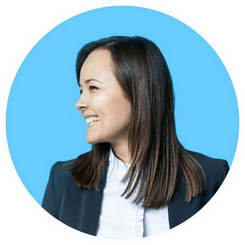
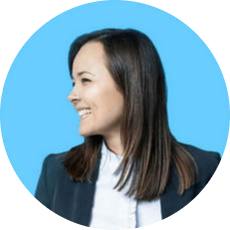
Bootstrap Exercise

diff --git a/index.html b/index.html
@@ -3,39 +3,126 @@
 	<head>
 		<title>Paulina Stachera-Diaz</title>
 		<link rel="stylesheet" href="style/style.css"/>
+		<link href="https://cdn.jsdelivr.net/npm/bootstrap@5.0.2/dist/css/bootstrap.min.css" rel="stylesheet" integrity="sha384-EVSTQN3/azprG1Anm3QDgpJLIm9Nao0Yz1ztcQTwFspd3yD65VohhpuuCOmLASjC" crossorigin="anonymous">
+		<script src="https://cdn.jsdelivr.net/npm/bootstrap@5.0.2/dist/js/bootstrap.bundle.min.js" integrity="sha384-MrcW6ZMFYlzcLA8Nl+NtUVF0sA7MsXsP1UyJoMp4YLEuNSfAP+JcXn/tWtIaxVXM" crossorigin="anonymous"></script>
 	</head>
-	<center>
 	<body>
-		
-		<img src="images/paulina-245x245.jpg" alt="Profile picture">
-		
-		<header class="container1">
-			<div class="opening">
-				
-				<h1>Paulina Stachera-Diaz</h1>
-								
+	<!-- navbar -->
+	<nav class="navbar navbar-expand-lg navbar-light bg-light">
+	  <div class="container">
+		<a class="navbar-brand" href="#"><img src="images/360x360-logo.jpg" alt="Logo" height="50"></a>
+		<button class="navbar-toggler" type="button" data-bs-toggle="collapse" data-bs-target="#navbarNav" aria-controls="navbarNav" aria-expanded="false" aria-label="Toggle navigation">
+		  <span class="navbar-toggler-icon"></span>
+		</button>
+		<div class="collapse navbar-collapse" id="navbarNav">
+		  <ul class="navbar-nav ms-auto">
+				<li class="nav-item">
+				  <a class="nav-link active" aria-current="page" href="#">Home</a>
+				</li>
+				<li class="nav-item">
+				  <a class="nav-link" href="cover letter/index.html">Cover Letter</a>
+				</li>
+				<li class="nav-item">
+				  <a class="nav-link" href="contact/index.html">Contact</a>
+				</li>
+			</ul>
+		</div>
+	  </div>
+	</nav>
+	
+	<!-- carrousel -->
+	<div id="carouselExampleControls" class="carousel slide" data-bs-ride="carousel">
+	  <div class="carousel-inner">
+		<div class="carousel-item active img-fluid">
+		  <img src="images/gregory-dalleau-KT4dOfvtZSg-unsplash.jpg" class="d-block w-100" alt="Streets of Dublin">
+		</div>
+		<div class="carousel-item img-fluid">
+		  <img src="images/gabriel-ramos-NCP6XF9XmvA-unsplash.jpg" class="d-block w-100" alt="River Liffey">
+		</div>
+		<div class="carousel-item img-fluid">
+		  <img src="images/alejandro-luengo-YOeEWHWWTOw-unsplash.jpg" class="d-block w-100" alt="Howth Cliff Walk">
+		</div>
+	  </div>
+	  <button class="carousel-control-prev" type="button" data-bs-target="#carouselExampleControls" data-bs-slide="prev">
+		<span class="carousel-control-prev-icon" aria-hidden="true"></span>
+		<span class="visually-hidden">Previous</span>
+	  </button>
+	  <button class="carousel-control-next" type="button" data-bs-target="#carouselExampleControls" data-bs-slide="next">
+		<span class="carousel-control-next-icon" aria-hidden="true"></span>
+		<span class="visually-hidden">Next</span>
+	  </button>
+	</div>
+	
+	<!-- about -->
+	<div class="container-about">
+		<div class="row">
+			<div class="col-lg-6 profilepic">
+				<center>
+				<img src="images/paulina-245x245.jpg" alt="Profile picture">
+				</center>
 			</div>
 			
-		</header>
+			<div class="col-lg-5">
+				<h1 class="h1">Paulina Stachera-Diaz</h1>
+				<p class="description">
+				Lorem ipsum dolor sit amet, consectetur adipiscing elit. Cras ultrices, massa sit amet ornare scelerisque, massa enim maximus neque, vel fringilla ligula tellus at mi. Suspendisse potenti. Donec nec sagittis sapien, et feugiat nulla. Sed lobortis nisi ut elementum ullamcorper. Sed convallis id ex eu faucibus. Nam nec tellus elementum, blandit lacus vitae, pellentesque magna. Donec eu ultrices justo. Vestibulum fringilla odio non mauris fermentum, at scelerisque elit scelerisque.
+
+				Maecenas quis nisl id libero ullamcorper dictum. Proin condimentum arcu eu enim volutpat ornare. Donec in lorem sed enim lobortis iaculis. Maecenas ante ante, egestas eu gravida ut, ullamcorper ac purus. Pellentesque dignissim ante auctor diam interdum volutpat. Quisque tempor commodo ipsum, eget tempor magna imperdiet at. Pellentesque hendrerit maximus luctus.
+
+				Praesent scelerisque sollicitudin libero, eget pellentesque lacus semper sed. Suspendisse non velit eget enim venenatis mattis quis vel mi. Ut quis vulputate ligula. Vestibulum rutrum dui vel fringilla lacinia. Duis non ultrices ante. Proin at sollicitudin lacus, vitae pharetra nibh. Sed felis nunc, vulputate ac urna sagittis, ultricies dapibus massa. Donec at risus tellus. Phasellus interdum velit sit amet erat aliquam posuere. Sed eget felis nec felis dignissim sollicitudin quis in turpis. In dignissim, mi non mollis scelerisque, massa magna commodo velit, sed commodo turpis massa quis tellus. Vestibulum ornare consequat laoreet. Nullam eu egestas lorem, sed feugiat tortor. Quisque enim tortor, malesuada quis nisl vel, bibendum rhoncus arcu. Fusce non tortor et lectus elementum venenatis. Pellentesque vehicula sodales ex.
+				</p>
+			</div>
+		</div>
+	</div>
+	
+	<!-- CV --> 
+	<div class="container">
+		<div class="row">
+			<div class="col-lg-4 cv">
+				<h1 class="h1">EDUCATION</h1>
+				<p>
+				Nulla pharetra id odio ac hendrerit. Vivamus consectetur eget mauris in facilisis. Nulla mollis viverra vulputate. Curabitur nec ipsum sit amet felis pharetra blandit. Etiam vehicula ullamcorper nisi non vulputate. Vivamus faucibus risus in pulvinar sagittis. Nullam eleifend augue dui, sed placerat eros rutrum non. Nunc maximus elementum dictum. 
+				</p>
+			</div>
 			
-		<div class="container2">
-			<div class="summary-box">
-				Highly organized trilingual fast-learner with a background in IT sales and project management. Able to work under pressure both as an individual contributor and as a part of a team. Self-starter used to deal with ambiguity. Currently upskilling in web development. 
+			<div class="col-lg-4 cv">
+				<h1 class="h1">SKILLS</h1>
+				<p>
+				Maecenas convallis, orci eget sollicitudin egestas, tortor ex vehicula elit, at condimentum felis quam ut sem. Maecenas et ligula eu ante sodales vehicula. Donec sit amet elit luctus, egestas enim tincidunt, pellentesque urna. Integer facilisis venenatis pretium. Phasellus elementum magna in faucibus dictum. 
+				</p>
+			</div>
+			
+			<div class="col-lg-4 cv">
+				<h1 class="h1">EXPERIENCE</h1>
+				<p>
+				Aliquam ultrices magna sed neque convallis sagittis. Suspendisse pulvinar maximus diam id ullamcorper. Morbi quis accumsan massa.
+				</p>
 			</div>
 			
 		</div>
-		<br/>
-		<h2>Discover more:</h2>
-				<a href="https://www.instagram.com/ohdeardublin/" target="blank"><img class="icon" src="images/instagram-icon-mini.png" alt="Instagram icon"></a>
-				<a href="https://www.linkedin.com/in/paulina-stachera/" target="blank"><img class="icon" src="images/linkedin-icon-mini.png" alt="Instagram icon"></a>
-		
-		
-		<br/><br/>
-		
-		<footer>
-		-Made in October 2021-
-		</footer>
 	
-	</center>
+	</div>
+	
+	<!-- footer -->
+	<div class="row">
+		<div class="col-lg-12">
+			<nav class="navbar navbar-light bg-light">
+				<div class="container">
+					<span class="navbar-text mx-auto text-center">
+					<h2>Discover more:</h2>
+						<a href="https://www.instagram.com/ohdeardublin/" target="blank"><img class="icon" src="images/instagram-icon-mini.png" alt="Instagram icon"></a>
+						<a href="https://www.linkedin.com/in/paulina-stachera/" target="blank"><img class="icon" src="images/linkedin-icon-mini.png" alt="LinkedIn icon"></a>
+						<br/>
+						<p>-Made in October 2021-</p>
+					</span>
+				</div>
+			</nav>
+		</div>
+	</div>
+	
+<!-- the end -->
+
+	<script src="https://cdn.jsdelivr.net/npm/@popperjs/core@2.9.2/dist/umd/popper.min.js" integrity="sha384-IQsoLXl5PILFhosVNubq5LC7Qb9DXgDA9i+tQ8Zj3iwWAwPtgFTxbJ8NT4GN1R8p" crossorigin="anonymous"></script>
+	<script src="https://cdn.jsdelivr.net/npm/bootstrap@5.0.2/dist/js/bootstrap.min.js" integrity="sha384-cVKIPhGWiC2Al4u+LWgxfKTRIcfu0JTxR+EQDz/bgldoEyl4H0zUF0QKbrJ0EcQF" crossorigin="anonymous"></script>
 	</body>	
 </html>

diff --git a/cover letter/index.html b/cover letter/index.html
@@ -1,0 +1,79 @@
+<!DOCTYPE html>
+<html>
+	<head>
+		<title>Cover Letter</title>
+		<link rel="stylesheet" href="../style/style.css"/>
+		<link href="https://cdn.jsdelivr.net/npm/bootstrap@5.0.2/dist/css/bootstrap.min.css" rel="stylesheet" integrity="sha384-EVSTQN3/azprG1Anm3QDgpJLIm9Nao0Yz1ztcQTwFspd3yD65VohhpuuCOmLASjC" crossorigin="anonymous">
+		<script src="https://cdn.jsdelivr.net/npm/bootstrap@5.0.2/dist/js/bootstrap.bundle.min.js" integrity="sha384-MrcW6ZMFYlzcLA8Nl+NtUVF0sA7MsXsP1UyJoMp4YLEuNSfAP+JcXn/tWtIaxVXM" crossorigin="anonymous"></script>
+	</head>
+	
+	
+	<body>
+	
+	<!-- navbar -->
+	<nav class="navbar navbar-expand-lg navbar-light bg-light">
+	  <div class="container">
+		<a class="navbar-brand" href="../index.html"><img src="../images/360x360-logo.jpg" alt="Logo" height="50"></a>
+		<button class="navbar-toggler" type="button" data-bs-toggle="collapse" data-bs-target="#navbarNav" aria-controls="navbarNav" aria-expanded="false" aria-label="Toggle navigation">
+		  <span class="navbar-toggler-icon"></span>
+		</button>
+		<div class="collapse navbar-collapse" id="navbarNav">
+		  <ul class="navbar-nav ms-auto">
+				<li class="nav-item">
+				  <a class="nav-link active" aria-current="page" href="../index.html">Home</a>
+				</li>
+				<li class="nav-item">
+				  <a class="nav-link" href="#">Cover Letter</a>
+				</li>
+				<li class="nav-item">
+				  <a class="nav-link" href="../contact/index.html">Contact</a>
+				</li>
+			</ul>
+		</div>
+	  </div>
+	</nav>
+	
+	
+	<!-- about -->
+	<div class="container-about">
+		<div class="row">
+			<center>
+			<div class="col-lg-10">
+				<h1 class=""h1>My Cover Letter</h1>
+				<p>
+				Lorem ipsum dolor sit amet, consectetur adipiscing elit. Cras ultrices, massa sit amet ornare scelerisque, massa enim maximus neque, vel fringilla ligula tellus at mi. Suspendisse potenti. Donec nec sagittis sapien, et feugiat nulla. Sed lobortis nisi ut elementum ullamcorper. Sed convallis id ex eu faucibus. Nam nec tellus elementum, blandit lacus vitae, pellentesque magna. Donec eu ultrices justo. Vestibulum fringilla odio non mauris fermentum, at scelerisque elit scelerisque.
+				</p>
+				<p>
+				Maecenas quis nisl id libero ullamcorper dictum. Proin condimentum arcu eu enim volutpat ornare. Donec in lorem sed enim lobortis iaculis. Maecenas ante ante, egestas eu gravida ut, ullamcorper ac purus. Pellentesque dignissim ante auctor diam interdum volutpat. Quisque tempor commodo ipsum, eget tempor magna imperdiet at. Pellentesque hendrerit maximus luctus.
+				</p>
+				<p>
+				Praesent scelerisque sollicitudin libero, eget pellentesque lacus semper sed. Suspendisse non velit eget enim venenatis mattis quis vel mi. Ut quis vulputate ligula. Vestibulum rutrum dui vel fringilla lacinia. Duis non ultrices ante. Proin at sollicitudin lacus, vitae pharetra nibh. Sed felis nunc, vulputate ac urna sagittis, ultricies dapibus massa. Donec at risus tellus. Phasellus interdum velit sit amet erat aliquam posuere. Sed eget felis nec felis dignissim sollicitudin quis in turpis. In dignissim, mi non mollis scelerisque, massa magna commodo velit, sed commodo turpis massa quis tellus. Vestibulum ornare consequat laoreet. Nullam eu egestas lorem, sed feugiat tortor. Quisque enim tortor, malesuada quis nisl vel, bibendum rhoncus arcu. Fusce non tortor et lectus elementum venenatis. Pellentesque vehicula sodales ex.
+				</p>
+				</center>
+			</div>
+		</div>
+	</div>
+	
+	<!-- footer -->
+	<div class="row">
+		<div class="col-lg-12">
+			<nav class="navbar navbar-light bg-light">
+				<div class="container">
+					<span class="navbar-text mx-auto text-center">
+					<h2>Discover more:</h2>
+						<a href="https://www.instagram.com/ohdeardublin/" target="blank"><img class="icon" src="../images/instagram-icon-mini.png" alt="Instagram icon"></a>
+						<a href="https://www.linkedin.com/in/paulina-stachera/" target="blank"><img class="icon" src="../images/linkedin-icon-mini.png" alt="LinkedIn icon"></a>
+						<br/>
+						<p>-Made in October 2021-</p>
+					</span>
+				</div>
+			</nav>
+		</div>
+	</div>
+	
+<!-- the end -->
+
+	<script src="https://cdn.jsdelivr.net/npm/@popperjs/core@2.9.2/dist/umd/popper.min.js" integrity="sha384-IQsoLXl5PILFhosVNubq5LC7Qb9DXgDA9i+tQ8Zj3iwWAwPtgFTxbJ8NT4GN1R8p" crossorigin="anonymous"></script>
+	<script src="https://cdn.jsdelivr.net/npm/bootstrap@5.0.2/dist/js/bootstrap.min.js" integrity="sha384-cVKIPhGWiC2Al4u+LWgxfKTRIcfu0JTxR+EQDz/bgldoEyl4H0zUF0QKbrJ0EcQF" crossorigin="anonymous"></script>
+	</body>	
+</html>

diff --git a/contact/index.html b/contact/index.html
@@ -1,0 +1,70 @@
+<!DOCTYPE html>
+<html>
+	<head>
+		<title>Contact</title>
+		<link rel="stylesheet" href="../style/style.css"/>
+		<link href="https://cdn.jsdelivr.net/npm/bootstrap@5.0.2/dist/css/bootstrap.min.css" rel="stylesheet" integrity="sha384-EVSTQN3/azprG1Anm3QDgpJLIm9Nao0Yz1ztcQTwFspd3yD65VohhpuuCOmLASjC" crossorigin="anonymous">
+		<script src="https://cdn.jsdelivr.net/npm/bootstrap@5.0.2/dist/js/bootstrap.bundle.min.js" integrity="sha384-MrcW6ZMFYlzcLA8Nl+NtUVF0sA7MsXsP1UyJoMp4YLEuNSfAP+JcXn/tWtIaxVXM" crossorigin="anonymous"></script>
+	</head>
+	
+	
+	<body>
+	
+	<!-- navbar -->
+	<nav class="navbar navbar-expand-lg navbar-light bg-light">
+	  <div class="container">
+		<a class="navbar-brand" href="../index.html"><img src="../images/360x360-logo.jpg" alt="Logo" height="50"></a>
+		<button class="navbar-toggler" type="button" data-bs-toggle="collapse" data-bs-target="#navbarNav" aria-controls="navbarNav" aria-expanded="false" aria-label="Toggle navigation">
+		  <span class="navbar-toggler-icon"></span>
+		</button>
+		<div class="collapse navbar-collapse" id="navbarNav">
+		  <ul class="navbar-nav ms-auto">
+				<li class="nav-item">
+				  <a class="nav-link active" aria-current="page" href="../index.html">Home</a>
+				</li>
+				<li class="nav-item">
+				  <a class="nav-link" href="../cover letter/index.html">Cover Letter</a>
+				</li>
+				<li class="nav-item">
+				  <a class="nav-link" href="#">Contact</a>
+				</li>
+			</ul>
+		</div>
+	  </div>
+	</nav>
+	
+	<!-- about -->
+	<div class="container-about">
+		<div class="row">
+		<center>
+			<div class="col-lg-12">
+				<h1>Contact:</h1>
+				<a href="mailto:hi@email.com">hi@email.com</a>
+			</div>
+		<center>
+		</div>
+	</div>
+	
+	<!-- footer -->
+	<div class="row">
+		<div class="col-lg-12">
+			<nav class="navbar navbar-light bg-light">
+				<div class="container">
+					<span class="navbar-text mx-auto text-center">
+					<h2>Discover more:</h2>
+						<a href="https://www.instagram.com/ohdeardublin/" target="blank"><img class="icon" src="../images/instagram-icon-mini.png" alt="Instagram icon"></a>
+						<a href="https://www.linkedin.com/in/paulina-stachera/" target="blank"><img class="icon" src="../images/linkedin-icon-mini.png" alt="LinkedIn icon"></a>
+						<br/>
+						<p>-Made in October 2021-</p>
+					</span>
+				</div>
+			</nav>
+		</div>
+	</div>
+	
+<!-- the end -->
+
+	<script src="https://cdn.jsdelivr.net/npm/@popperjs/core@2.9.2/dist/umd/popper.min.js" integrity="sha384-IQsoLXl5PILFhosVNubq5LC7Qb9DXgDA9i+tQ8Zj3iwWAwPtgFTxbJ8NT4GN1R8p" crossorigin="anonymous"></script>
+	<script src="https://cdn.jsdelivr.net/npm/bootstrap@5.0.2/dist/js/bootstrap.min.js" integrity="sha384-cVKIPhGWiC2Al4u+LWgxfKTRIcfu0JTxR+EQDz/bgldoEyl4H0zUF0QKbrJ0EcQF" crossorigin="anonymous"></script>
+	</body>	
+</html>

diff --git a/style/style.css b/style/style.css
@@ -1,39 +1,33 @@
-@media(min-width:768px){
-	.container1{
-		display:flex; 
-		justify-content:center;
-		width: 50%; 
-		text-align: center; 
-	}
+body{
+	background-color: white;
+	color:gray;
+	font-family:Helvetica;
+	text-align: left; 
+}
 
-	.container2{
-		display:flex; 
-		justify-content:space-around;
-	}
+.h1{
+	text-align:center; 
 }
 
 .icon{
 	padding: 10px; 
 }
 
-.summary-box{
-	flex-basis:35%;
-	padding: 10px;
-	order: 1; 
+.container-about {
+	margin-top: 50px; 
 }
 
-body{
-	display: flex; 
-	flex-direction: column; 
-	background-image: url("../images/bg-2.png");
-	background-repeat: no-repeat;
-	background-attachment: fixed;
-	background-position: bottom left;
-	background-color: white;
-	color:gray;
-	font-family:Helvetica;
+.description{
+	padding: 20px; 
 }
 
+.carousel-inner{
+	height: 360px;
+}
+
+.cv{
+	padding: 20px; 
+}
 
 /*
 #69cdff 
